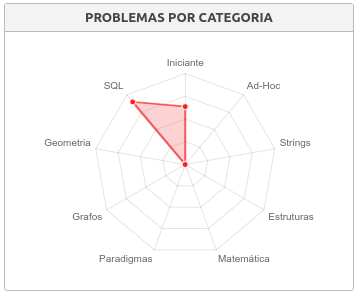
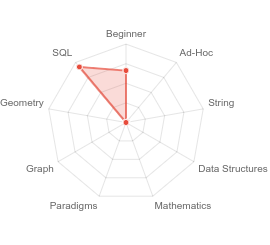
Update README info

diff --git a/README.md b/README.md
@@ -5,24 +5,25 @@ All my solutions for problems from [URI Online Judge](https://www.urionlinejudge
 Todas as minhas soluções para problemas do [Juiz Online URI](https://www.urionlinejudge.com.br/judge/pt).
 
 ## My Profile
-* <b>Name:</b> <a href="https://www.urionlinejudge.com.br/judge/en/profile/242402">Marcos  Lima</a>
+* <b>Name:</b> <a href="https://www.urionlinejudge.com.br/judge/en/profile/242402">Marcos Lima (marcosmapl)</a>
 * <b>Country:</b> Brazil
 * <b>University:</b> Universidade Federal do Amazonas - <a href="https://www.urionlinejudge.com.br/judge/en/users/university/ufam">UFAM</a>
-* <b>Since:</b> 3/26/2019
-* <b>Main Rank Position:</b> 3493º
-* <b>Institution Rank Position:</b> 34º
+* <b>Since:</b> 3/26/2018
+* <b>Main Rank Position:</b> 3,253º
+* <b>Institution Rank Position:</b> 33º
 
-## Progress 09.33 %
-* <b>Points:</b> 582.4
-* <b>Solved:</b> 188
-* <b>Tried:</b> 191
-* <b>Submissions:</b> 261
-	* [01 - Beginner Problems Solutions 51 %](https://github.com/limadmarcos/uri-solutions/tree/master/01-beginner)
+## Progress 09.71 %
+* <b>Points:</b> 604.2
+* <b>Solved:</b> 198
+* <b>Tried:</b> 201
+* <b>Submissions:</b> 274
+	* [01 - Beginner Problems Solutions 53 %](https://github.com/limadmarcos/uri-solutions/tree/master/01-beginner)
 	* [02 - Ad-Hoc Problems Solutions 1 %](https://github.com/limadmarcos/uri-solutions/tree/master/02-ad-hoc)
 	* [03 - Strings Problems Solutions 1 %](https://github.com/limadmarcos/uri-solutions/tree/master/03-strings)
-	* [09 - SQL Problems Solutions 72 %](https://github.com/limadmarcos/uri-solutions/tree/master/09-sql)
+	* [09 - SQL Problems Solutions 74 %](https://github.com/limadmarcos/uri-solutions/tree/master/09-sql)
 	* [10 - Christmas Contest Solutions](https://github.com/limadmarcos/uri-solutions/tree/master/contest-christmas)
 
+<img src="progress.png">
 <img src="submissions.png">
 <img src="problems-web.png">
 <img src="languages.png">
